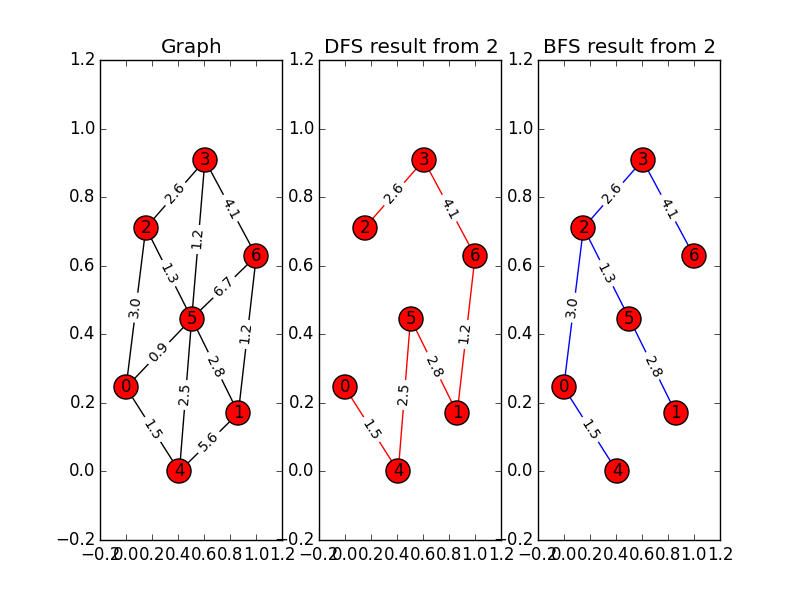
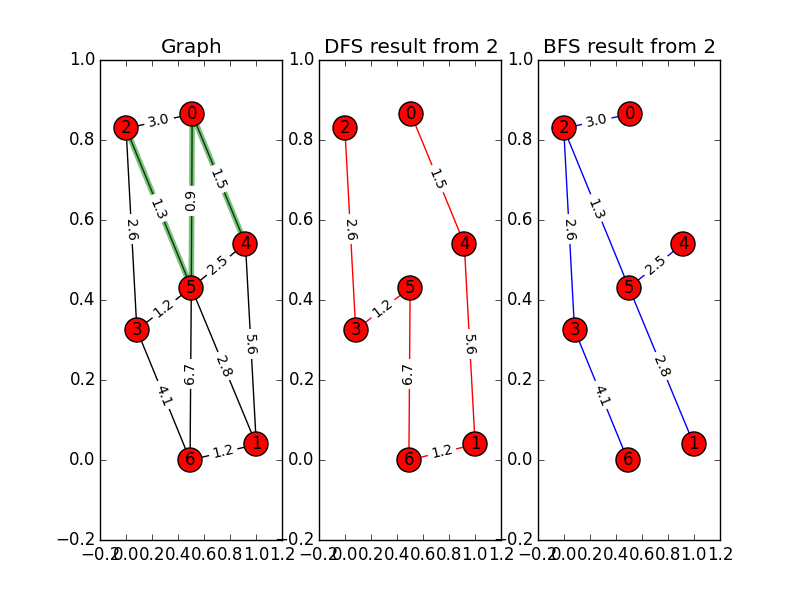
paaaain

diff --git a/work.py b/work.py
@@ -40,6 +40,7 @@ def dijkstra(G, start):
     shortest_paths = {node:float('+inf') for node in G}
     shortest_paths[str(start)] = 0
     queue = [str(start)]
+    shortest_from = [-1]*len(nx.nodes(G))
     while len(queue) != 0:
         current = queue.pop(0)
         for neighbour in G[current]:
@@ -47,10 +48,15 @@ def dijkstra(G, start):
             if offered_path < shortest_paths[neighbour]:
                 shortest_paths[neighbour] = offered_path
                 queue.append(neighbour)
-    return shortest_paths
+                shortest_from[int(neighbour)] = current
+    return (shortest_paths, shortest_from)
 
 def shortest_one_another(G, node1, node2):
-    return dijkstra(G, node1)[node2]
+    path = []
+    while dijkstra(G, node1)[1][int(node2)] != -1:
+        path.append((node2, dijkstra(G, node1)[1][int(node2)]))
+        node2 = dijkstra(G, node1)[1][int(node2)]
+    return path
 
 '''def shortest_path(G, node1, node2, path = [], called = set()):
     called.add(node2)
@@ -87,7 +93,7 @@ graph = read_graph()
 position = nx.spring_layout(graph)
 depth = dfs(graph, str_node)
 breadth = bfs(graph, str_node)
-optimal_paths = dijkstra(graph, str_node)
+optimal_paths = dijkstra(graph, str_node)[0]
 
 print('Shortest paths from ' + str_node + ':')
 for node in graph:
@@ -95,7 +101,7 @@ for node in graph:
 
 print('Enter two nodes:', end=' ')
 nds = input().split()
-print('Shortest path from ' + nds[0] + ' to ' + nds[1] + ' is ' + str(shortest_one_another(graph, nds[0], nds[1])))
+highlight = shortest_one_another(graph, nds[0], nds[1])
 
 #print(shortest_path(graph, '2', '4'))
 
@@ -104,6 +110,7 @@ file.close()
 plt.subplot(1, 3, 1)
 plt.title('Graph')
 draw_graph(graph, position)
+nx.draw_networkx_edges(graph, position, highlight, edge_color='green', alpha=0.5, width=4.0)
 plt.subplot(1, 3, 2)
 plt.title('DFS result from ' + str_node)
 draw_graph(depth, position, 'dfs_graph.png', color='red')
